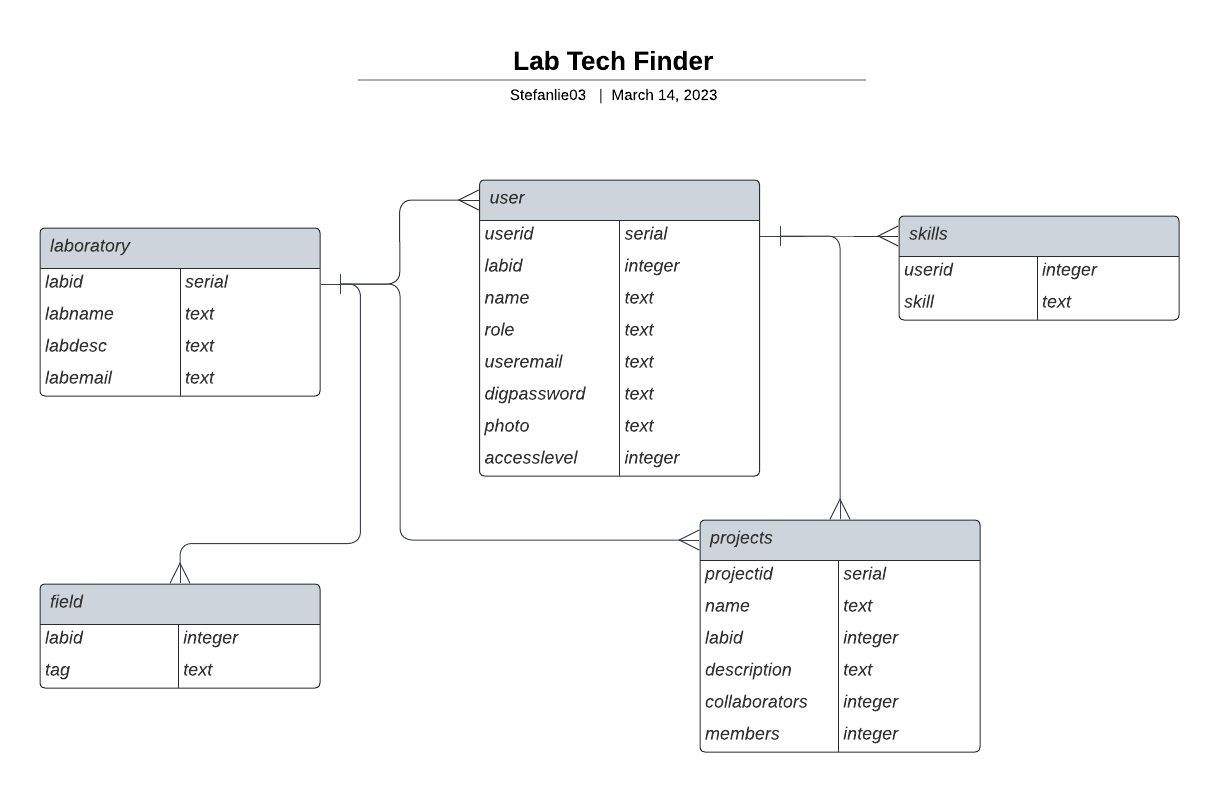
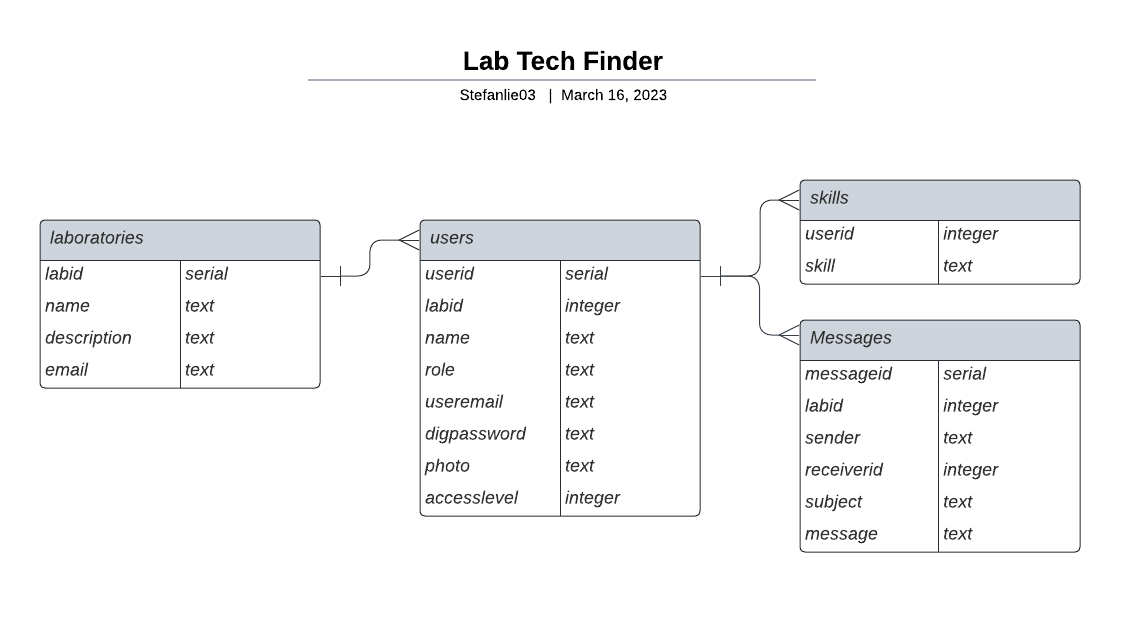
Updated README.md

diff --git a/README.md b/README.md
@@ -23,6 +23,10 @@ The key is hardcoded with a maximum of 200 requests a day. So far I have not hit
 ## Standard Convention CRUD features
 Create, Read, Update and Delete entries from a database. For this project, postgreSQL is used.
 
+In essence, the all pages will be displayed using GET method, while the endpoint of POST, DELETE and PUT are redirected to a GET route.
+
+![Server](./artefacts/server.jpg)
+
 ---
 
 ## One truth to rule them all
@@ -42,6 +46,10 @@ e.g. prot gen => proteomics and genome
 ***All roads lead to Rome***
 
 You have the options to search using different types of queries. For example to find a particular lab, you can search for it using either the laboratory name or Principal Investigator's name (PI).
+
+## Database Structure
+
+![schema](./artefacts/Lab%20Tech%20Finder.png)
 
 ---
 
@@ -73,10 +81,8 @@ The app also uses [bcrypt](https://www.npmjs.com/package/bcrypt) to encrypt your
 
 ---
 
-# Database
 
-![schema](./artefacts/Lab%20Tech%20Finder.png)
-Note: So far, projects and field tables are not available yet.
+
 
 ## Routes
 | Items | Method | Route | Done? |
@@ -142,7 +148,7 @@ Note: more details in artefacts.
 There are some sample pictures in the public directory. Use them whenever appropriate.
 
 ## Bugs
-- Still dont understand how HTTP methods work. What is a "resource" and why post is different from put / patch?
+- Still dont understand how HTTP methods work exactly. What is a "resource" and why post is different from put / patch?
 - What does ensure log in do?
 - I FORGOT TO ADD SUPER USER!
 <!-- 4. Adding new lab member causes a bug where the picture not loaded properly. Exiting the page and reentering works, though. Currently redirecting to lab page to circumvent this problem. -->
